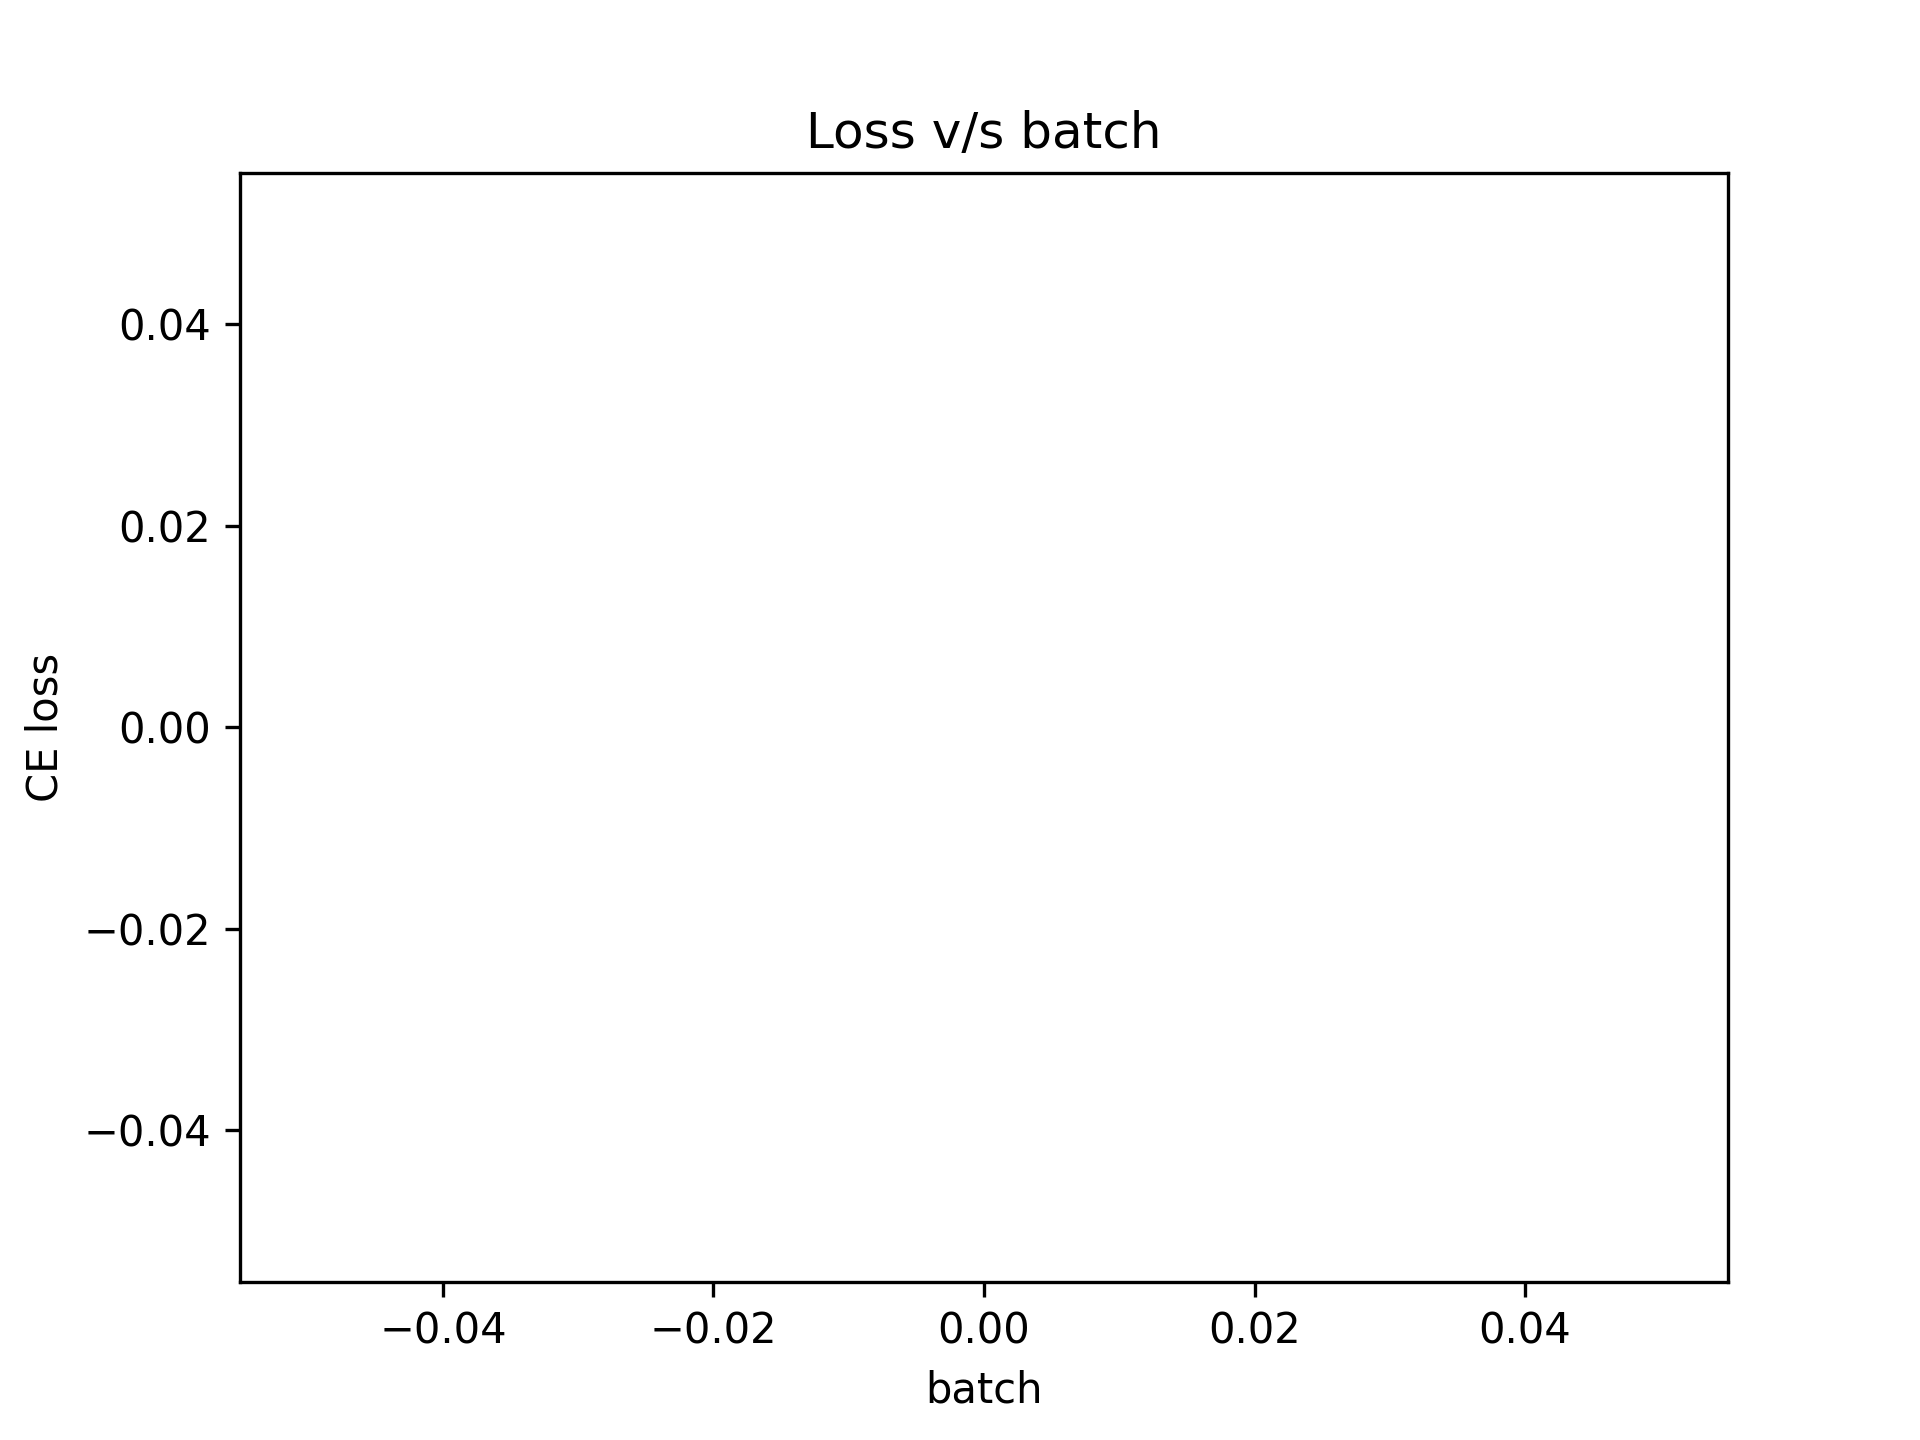
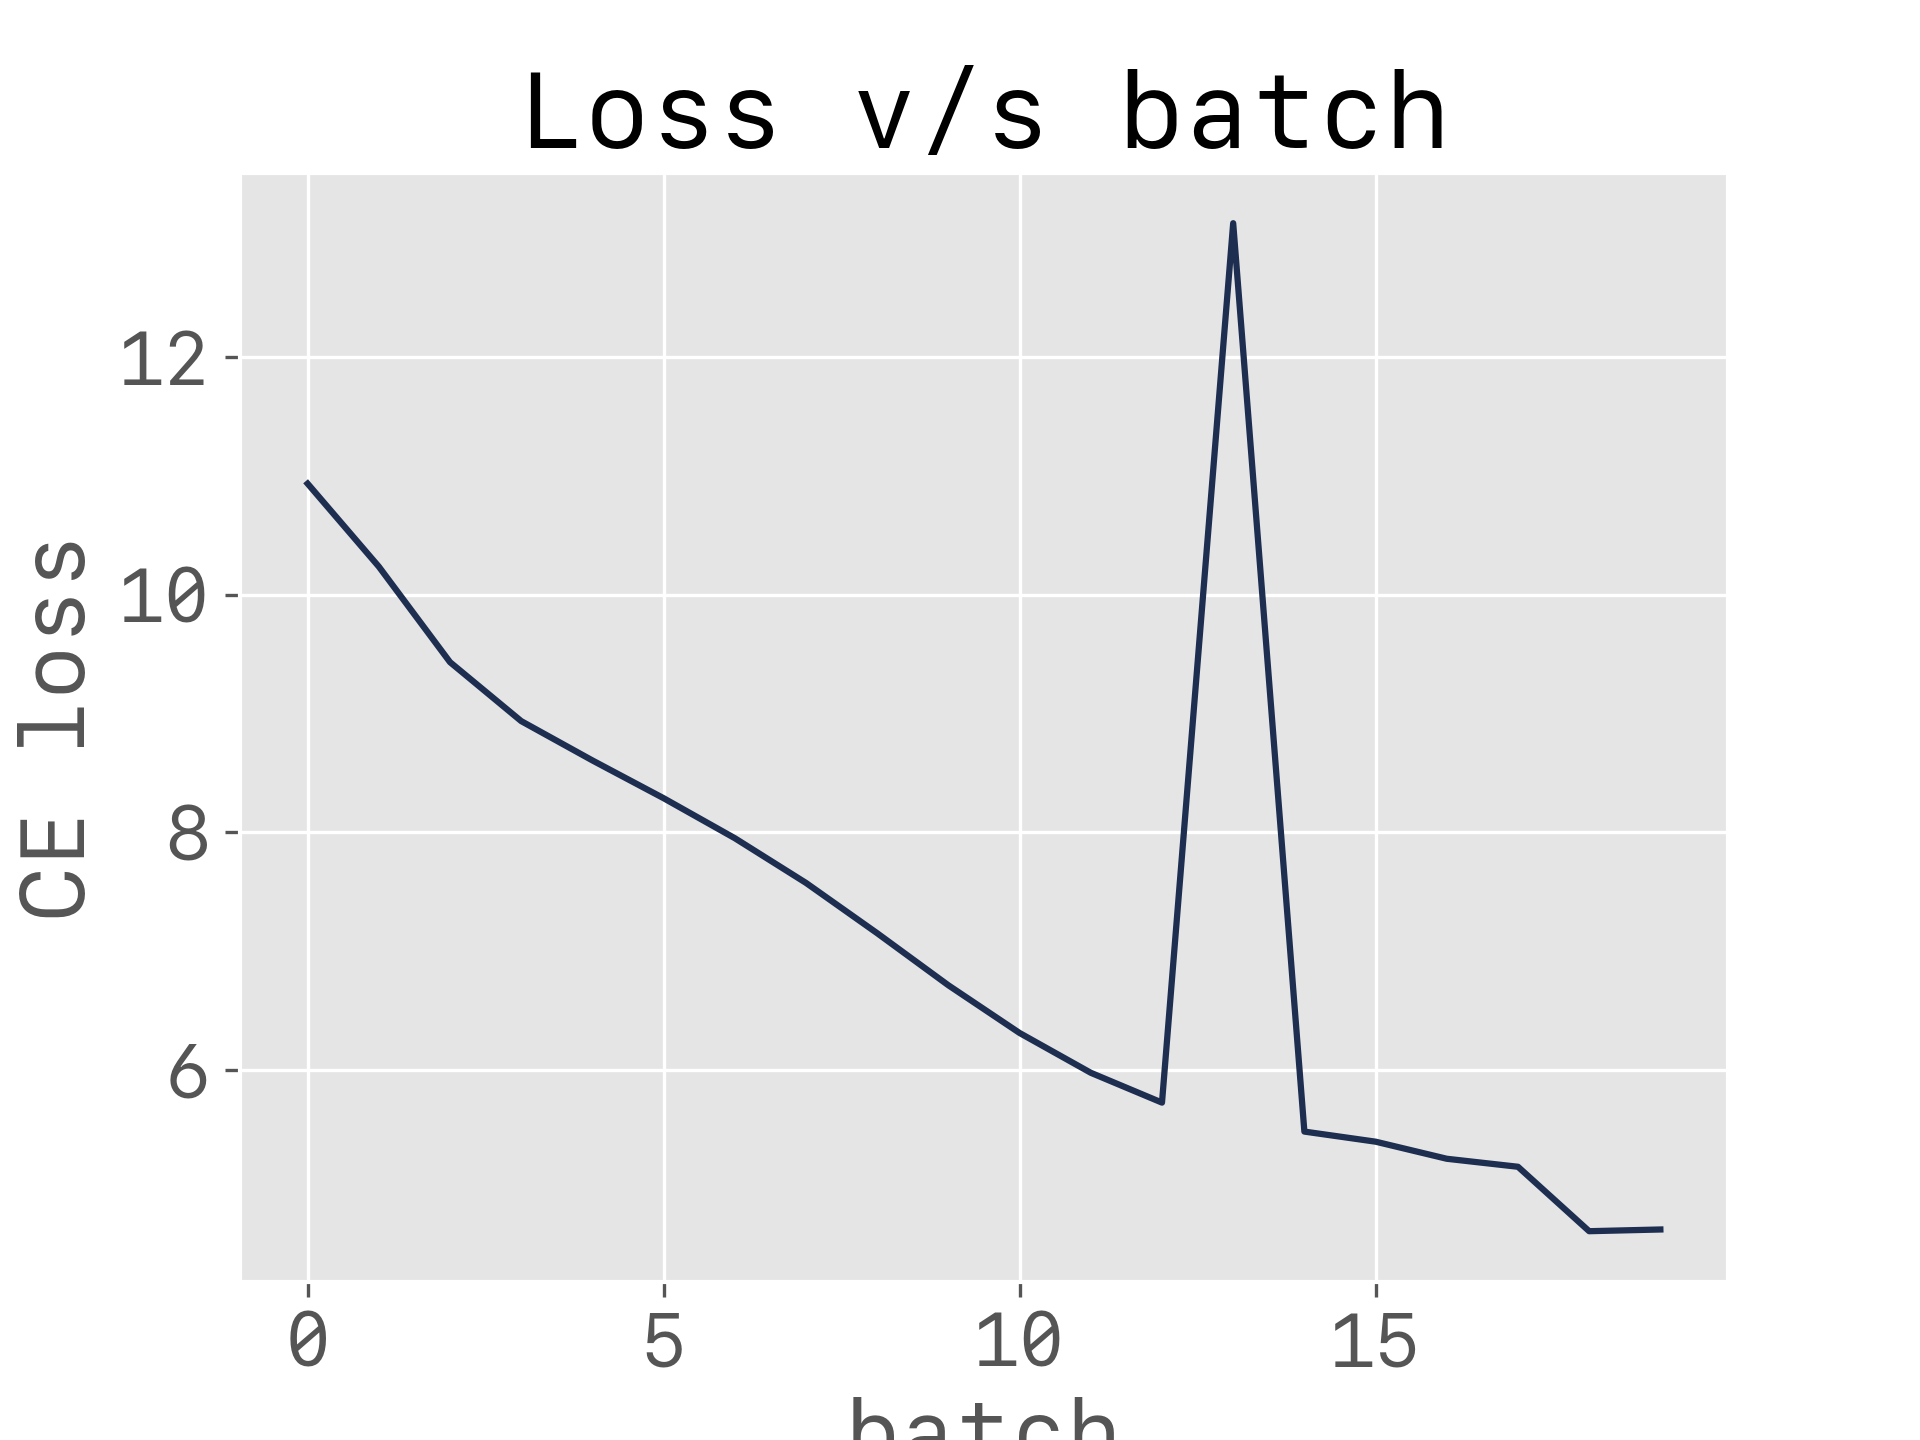
made the code faster using flash attention and stuff

diff --git a/train.py b/train.py
@@ -5,53 +5,81 @@ from GPT.config import GPTConfig
 import torch
 from GPT.config import gpt2Config
 import matplotlib.pyplot as plt
+plt.style.use('ggplot')
 import joblib
 import time
+import math
+import seaborn as sns
 
-torch.manual_seed(69)
+plt.rcParams['font.family'] = 'SF Mono'
+plt.rcParams['font.size'] = 10
+plt.figure(figsize=(40, 16))   # options: 'serif', 'sans-serif', 'monospace'
+colors =[ "#1D2E50",'#334879','#8EB4E3','#D7E0F4']
+colorsSorted = [ "#1D2E50",'#334879','#8EB4E3','#D7E0F4'][::-1]
+sns.set_palette(colors)
 
+torch.manual_seed(42)
 device = 'mps'
-
-data = TextFile('Trainer/data.txt', 8, 512, device=device)
+data = TextFile('Trainer/data.txt', 4, 1024, device=device)
 
 torch.set_float32_matmul_precision('medium') # using TF32 instead of FP32.
 
 # model = joblib.load('GPT2_124M_01.pkl')
-model = GPT2(GPTConfig(device=device))
-modle = torch.compile(model)
+model = GPT2(GPTConfig(device=device, vocab_size=50304, flash_attention=True))
+# model = torch.compile(model)
 print(f'using device {model.config.device}')
+
+max_lr = 6e-4
+min_lr = 0.1 * max_lr
+warmup_steps = 10
+max_steps = 50
+
+def get_lr(it):
+    if it <= warmup_steps:
+        return (it+1)/(warmup_steps) * max_lr
+    if (it <= max_steps):
+        decay_ratio = (it - warmup_steps)/(max_steps - warmup_steps)
+        coeff = 0.5 * (1 + math.cos(math.pi * decay_ratio))
+        return min_lr + coeff * (max_lr - min_lr)
+    return min_lr
+
 optimizer = torch.optim.AdamW(
     params=model.parameters(),
-    lr=3e-4
+    lr=3e-4,
+    betas=(0.9, 0.95),
+    eps=1e-8
 )
 
 # print(data.tokens.size(0) // (data.B * data.T))
 # import sys; sys.exit(0)
 losses = []
-epochs = len(data.tokens) // (data.B * data.T)
-print(f'total num of epochs: {epochs}')
+steps = len(data.tokens) // (data.B * data.T)
+steps = 20
+print(f'total num of epochs: {steps}')
 
 prog_bar = False
 wrapper = lambda x: x
 if prog_bar: wrapper = tqdm
-for ind in wrapper(range(epochs)):
-    model.train()
-    optimizer.zero_grad()
+for step in wrapper(range(steps)):
+    model.train()    
     t0 = time.time()
     x, y = data.next_batch()
+    optimizer.zero_grad()
     with torch.autocast(device_type=device, dtype=torch.bfloat16):
         logits, loss = model(x, y)
-        # import code; code.interact(local=locals())
+    losses.append(loss.item())
     loss.backward()
-    # losses.append(loss.item())
+    norm = torch.nn.utils.clip_grad_norm_(model.parameters(), 1.0)
+    lr = get_lr(step)
+    for param_group in optimizer.param_groups:
+        param_group['lr'] = lr
     optimizer.step()
     torch.mps.synchronize()
     t1 = time.time()
     tok_rate = (data.B * data.T) / (t1 - t0)
-    print(f'epoch ({ind}/{epochs})\ttime for epoch: {t1 - t0}\ttok/sec: {tok_rate}')
+    print(f'epoch ({step}/{steps})\ttime for epoch: {t1 - t0}\ttok/sec: {tok_rate}\tlr: {lr}\tloss: {loss.item()}\tnorm: {norm}')
     
-    if (ind + 1) % 100 == 0:
-        print(f'epoch {ind + 1}: loss is {loss}')
+    
 
 #saving the loss v/s epochs
 fig, ax = plt.subplots(1)

diff --git a/GPT/model.py b/GPT/model.py
@@ -47,7 +47,7 @@ class GPT2Attention(nn.Module):
             torch.nn.init.normal_(module.weight, mean=0, std=0.02) # according to GPT2 paper.
 
 
-    def forward(self, x: torch.Tensor):
+    def forward(self, x: torch.Tensor, flash_attention=True):
         b, l, d = x.size()
 
         # splitting into q, k, v
@@ -58,16 +58,15 @@ class GPT2Attention(nn.Module):
         k = k.view(b, l, self.config.n_head, d // self.config.n_head).transpose(1, 2)
         v = v.view(b, l, self.config.n_head, d // self.config.n_head).transpose(1, 2)
 
-        att = (q @ k.transpose(-1, -2)) * (1/math.sqrt(k.size(-1)))
-        # print(att.size())
-        # causal_mask = self.causal_mask(a, b, c)
-        # print(att.shape)
-        # att += causal_mask
-        att = att.masked_fill(self.bias[:,:,:l,:l] == 0, float('-inf'))
-        att = F.softmax(att, dim=-1)
-        
-        att = self.attn_dropout(att)
-        att = att @ v
+        if flash_attention:
+            att = F.scaled_dot_product_attention(q, k, v, is_causal=True)
+            # print('hey')
+        else:
+            att = (q @ k.transpose(-1, -2)) * (1/math.sqrt(k.size(-1)))
+            att = att.masked_fill(self.bias[:,:,:l,:l] == 0, float('-inf'))
+            att = F.softmax(att, dim=-1)
+            # att = self.attn_dropout(att)
+            att = att @ v
 
         att = att.transpose(1, 2).contiguous().view(b, l, d)
         att = self.resid_dropout(self.c_proj(att))
@@ -108,7 +107,7 @@ class GPT2Block(nn.Module):
 
     def forward(self, x: torch.Tensor):
         B, T, C = x.size()
-        x = x + self.attn(self.ln_1(x))
+        x = x + self.attn(self.ln_1(x), flash_attention=self.config.flash_attention)
         x = x + self.mlp(self.ln_2(x))
         return x
         

diff --git a/Trainer/dataset.py b/Trainer/dataset.py
@@ -31,8 +31,8 @@ class TextFile:
         if (self.current_pos + self.B * self.T > len(self.tokens)): self.current_pos = 0
         batch_tokens =  self.tokens[self.current_pos: self.current_pos + self.B * self.T + 1]
         if len(batch_tokens) % self.B != 0: self.current_pos = 0
-        x = batch_tokens[:-1].contiguous().view(self.B, -1)
-        y = batch_tokens[1:].contiguous().view(self.B, -1) 
+        x = batch_tokens[:-1].view(self.B, -1)
+        y = batch_tokens[1:].view(self.B, -1) 
 
         if self.current_pos + (self.B * self.T) < self.tokens.size(0):
             self.current_pos += (self.B * self.T)

diff --git a/GPT/config.py b/GPT/config.py
@@ -11,6 +11,7 @@ class GPTConfig:
     bias: bool = True
     n_head: int = 12
     device: str = 'cpu'
+    flash_attention: bool = True
 
 gpt2Config = GPTConfig(
     device = 'mps' if torch.backends.mps.is_available() else 'cpu'

diff --git a/devlog.md b/devlog.md
@@ -101,3 +101,11 @@
 - i got insanely higher tokens per second (+300) by reducing, number of tokens in each batch. (1024 -> 256)
 - found sweet spot at 512 tokens in each idx with 8 idx's.
 - using torch.compile
+- removed .contiguous() from dataset.py. got the time down to ~3.5s per iteration and 1130 tok/sec.
+- got 1050 tok/sec even when using 1024 n_embed when using flash attention (crazy) (4 idx per batch, 1024 tokens per idx)
+- got 1060 tok/sec using 50304 vocab_size
+- 330 tok/sec to 830 tok/sec (2.5x faster overall)
+- used the hyper parameters used by GPT3.
+- got 1000 tok/sec without using torch.compile
+- Ak was getting 173k tok/sec.
+- almost 170x my speed.
